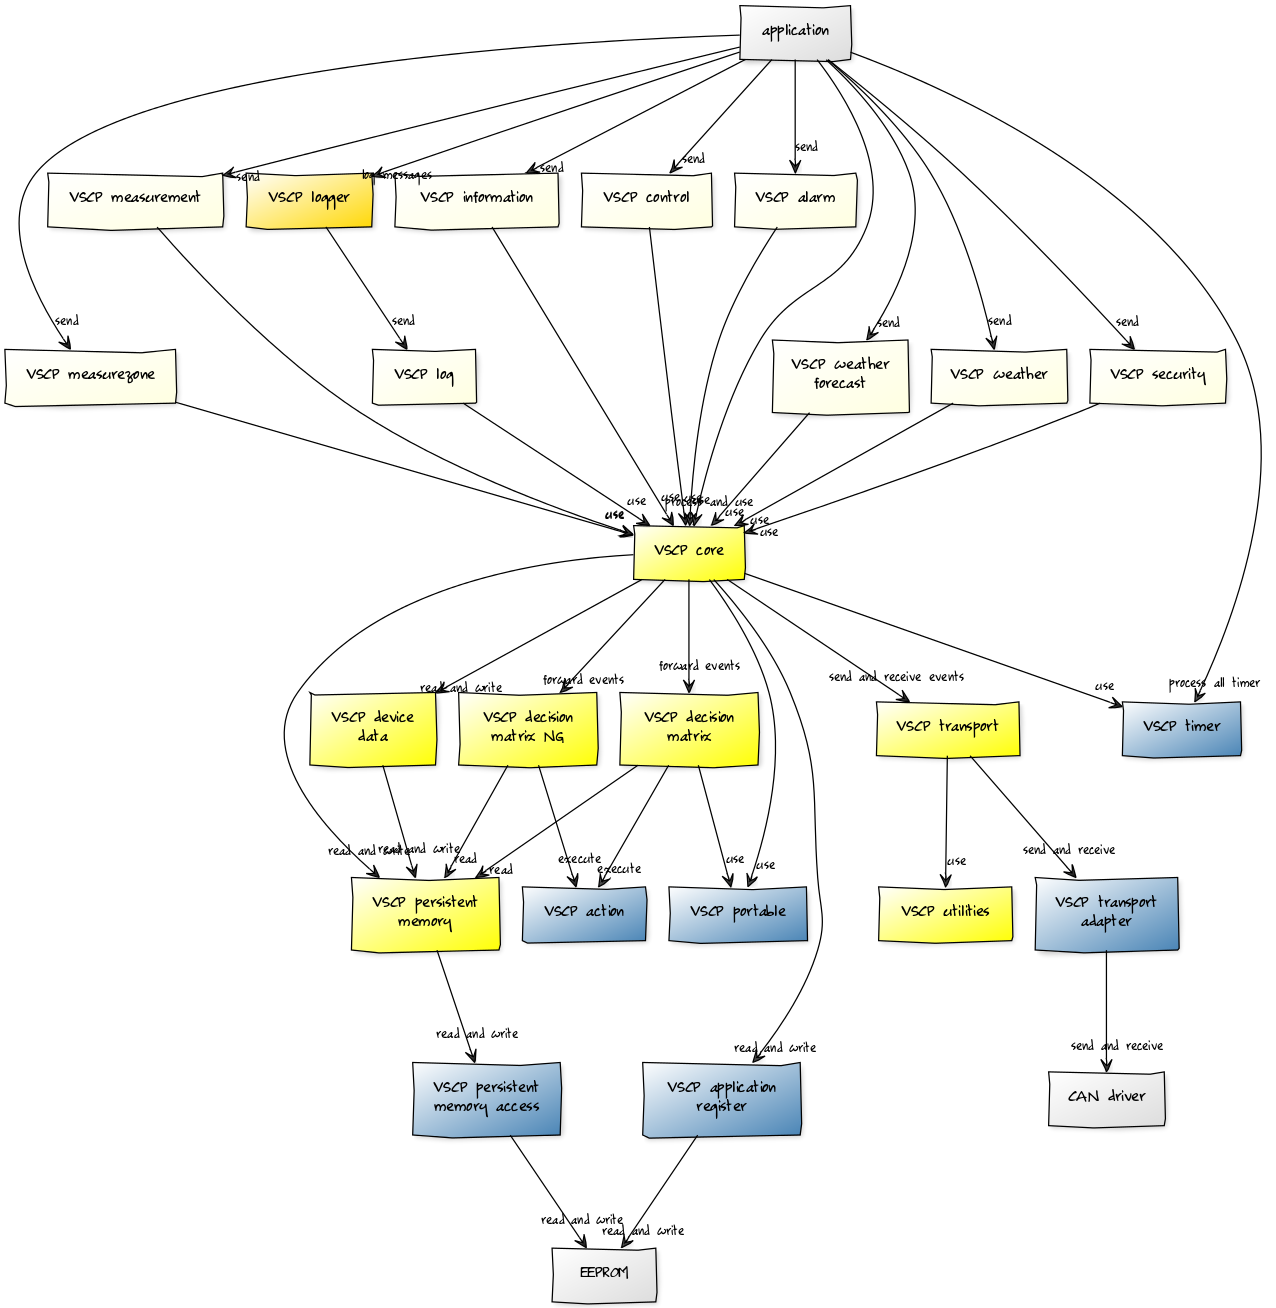
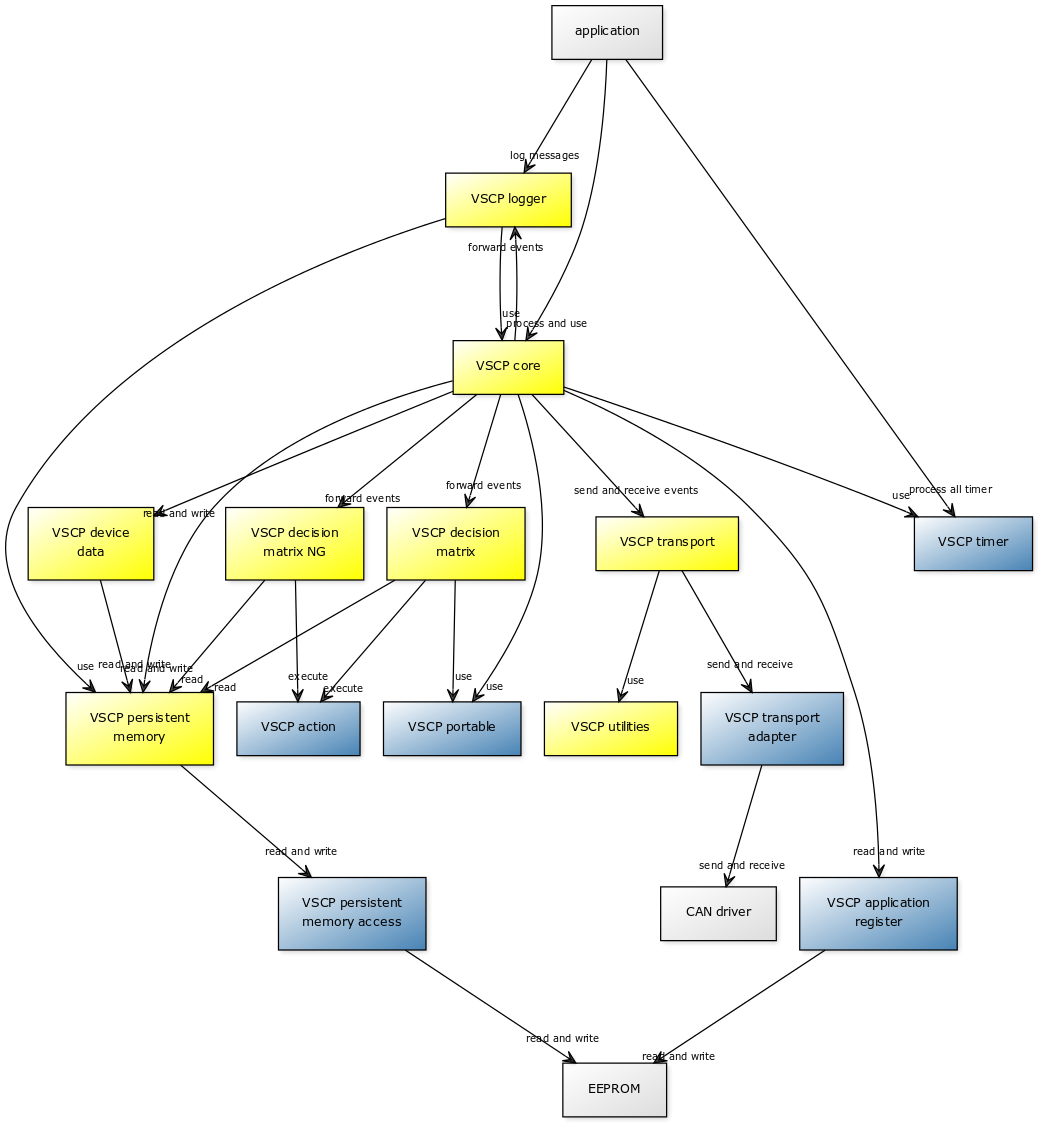
Architecture regarding log/logger re-factored. Documentation updated.

diff --git a/vscp/vscp_logger.c b/vscp/vscp_logger.c
@@ -44,7 +44,7 @@ $Date: 2015-01-05 20:23:52 +0100 (Mo, 05 Jan 2015) $
     INCLUDES
 *******************************************************************************/
 #include "vscp_logger.h"
-#include "vscp_log.h"
+#include "vscp_core.h"
 #include "vscp_class_l1.h"
 #include "vscp_type_log.h"
 #include "vscp_ps.h"
@@ -135,7 +135,7 @@ extern void vscp_logger_log(uint8_t id, VSCP_LOGGER_LVL level, uint8_t const * c
     {
         if (0 != (vscp_logger_logLevel & (1 << level)))
         {
-            (void)vscp_log_sendLogEvent(id, level, msg, size);
+            (void)vscp_logger_sendLogEvent(id, level, msg, size);
         }
     }
 
@@ -214,8 +214,68 @@ extern void vscp_logger_handleEvent(vscp_RxMessage const * const msg)
     return;
 }
 
+#endif  /* VSCP_CONFIG_BASE_IS_ENABLED( VSCP_CONFIG_ENABLE_LOGGER ) */
+
+/**
+ * Message for Log. Several frames have to be sent for a event that take up more the
+ * five bytes which is the maximum for each frame. In this case the zero based index
+ * (byte 2) should be increased for each frame.
+ *
+ * @param[in] id ID for event.
+ * @param[in] level Log level for message.
+ * @param[in] msg Message.
+ * @param[in] size Message size in bytes.
+ * @return Status
+ * @retval FALSE Failed to send the event
+ * @retval TRUE  Event successful sent
+ *
+ */
+extern BOOL vscp_logger_sendLogEvent(uint8_t id, uint8_t level, uint8_t const * const msg, uint8_t size)
+{
+    vscp_TxMessage  txMsg;
+    uint8_t         index       = 0;
+    uint8_t         eventIndex  = 0;
+    uint8_t         msgIndex    = 0;
+    BOOL            status      = FALSE;
+    
+    vscp_core_prepareTxMessage(&txMsg, VSCP_CLASS_L1_LOG, VSCP_TYPE_LOG_LOG_EVENT, VSCP_PRIORITY_3_NORMAL);
+
+    txMsg.dataNum = 8;
+    txMsg.data[0] = id;
+    txMsg.data[1] = level;
+    
+    /* If necessary, send several log events for a single log message. */
+    do
+    {
+        /* Log event index, later needed to reassemble the log message */
+        txMsg.data[2] = eventIndex;
+
+        /* Defragment the log message */
+        for(index = 3; index < VSCP_L1_DATA_SIZE; ++index)
+        {
+            if ((NULL != msg) &&
+                (0 < size))
+            {
+                txMsg.data[index] = msg[msgIndex];
+                ++msgIndex;
+                --size;
+            }
+            /* Fill the rest of the log event with zeros. */
+            else
+            {
+                txMsg.data[index] = 0;
+            }
+        }
+        
+        status = vscp_core_sendEvent(&txMsg);
+        
+        ++eventIndex;
+    }
+    while((NULL != msg) && (0 < size) && (TRUE == status));
+    
+    return status;
+}
+
 /*******************************************************************************
     LOCAL FUNCTIONS
 *******************************************************************************/
-
-#endif  /* VSCP_CONFIG_BASE_IS_ENABLED( VSCP_CONFIG_ENABLE_LOGGER ) */

diff --git a/vscp/events/vscp_log.c b/vscp/events/vscp_log.c
@@ -50,6 +50,7 @@ $Date: 2015-01-05 20:23:52 +0100 (Mo, 05 Jan 2015) $
 #include "vscp_core.h"
 #include "vscp_class_l1.h"
 #include "vscp_type_log.h"
+#include "vscp_logger.h"
 
 /*******************************************************************************
     COMPILER SWITCHES
@@ -118,48 +119,7 @@ extern BOOL vscp_log_sendUndefinedEvent(void)
  */
 extern BOOL vscp_log_sendLogEvent(uint8_t id, uint8_t level, uint8_t const * const msg, uint8_t size)
 {
-    vscp_TxMessage  txMsg;
-    uint8_t         index       = 0;
-    uint8_t         eventIndex  = 0;
-    uint8_t         msgIndex    = 0;
-    BOOL            status      = FALSE;
-    
-    vscp_core_prepareTxMessage(&txMsg, VSCP_CLASS_L1_LOG, VSCP_TYPE_LOG_LOG_EVENT, VSCP_PRIORITY_3_NORMAL);
-
-    txMsg.dataNum = 8;
-    txMsg.data[0] = id;
-    txMsg.data[1] = level;
-    
-    /* If necessary, send several log events for a single log message. */
-    do
-    {
-        /* Log event index, later needed to reassemble the log message */
-        txMsg.data[2] = eventIndex;
-
-        /* Defragment the log message */
-        for(index = 3; index < VSCP_L1_DATA_SIZE; ++index)
-        {
-            if ((NULL != msg) &&
-                (0 < size))
-            {
-                txMsg.data[index] = msg[msgIndex];
-                ++msgIndex;
-                --size;
-            }
-            /* Fill the rest of the log event with zeros. */
-            else
-            {
-                txMsg.data[index] = 0;
-            }
-        }
-        
-        status = vscp_core_sendEvent(&txMsg);
-        
-        ++eventIndex;
-    }
-    while((NULL != msg) && (0 < size) && (TRUE == status));
-    
-    return status;
+    return vscp_logger_sendLogEvent(id, level, msg, size);
 }
 
 /**

diff --git a/vscp/vscp_logger.h b/vscp/vscp_logger.h
@@ -259,6 +259,22 @@ extern void vscp_logger_handleEvent(vscp_RxMessage const * const msg);
 
 #endif  /* VSCP_CONFIG_BASE_IS_ENABLED( VSCP_CONFIG_ENABLE_LOGGER ) */
 
+/**
+ * Message for Log. Several frames have to be sent for a event that take up more the
+ * five bytes which is the maximum for each frame. In this case the zero based index
+ * (byte 2) should be increased for each frame.
+ *
+ * @param[in] id ID for event.
+ * @param[in] level Log level for message.
+ * @param[in] msg Message.
+ * @param[in] size Message size in bytes.
+ * @return Status
+ * @retval FALSE Failed to send the event
+ * @retval TRUE  Event successful sent
+ *
+ */
+extern BOOL vscp_logger_sendLogEvent(uint8_t id, uint8_t level, uint8_t const * const msg, uint8_t size);
+
 #ifdef __cplusplus
 }
 #endif

diff --git a/README.md b/README.md
@@ -24,8 +24,9 @@ More information can be found on the main site http://www.vscp.org
 ##Framework
 The VSCP software framework for level 1 devices provides several layers according to the [VSCP specification](http://www.vscp.org/docs/vscpspec/doku.php).
 
+##Core
+![core-diagram](https://github.com/BlueAndi/vscp-framework/blob/master/vscp/doc/doxfiles/vscp_modules.png)
 ![color-legend](https://github.com/BlueAndi/vscp-framework/blob/master/vscp/doc/doxfiles/vscp_modules_color_legend.png)
-![overview-diagram](https://github.com/BlueAndi/vscp-framework/blob/master/vscp/doc/doxfiles/vscp_modules.png)
 
 * The core functionality which has a built-in state machine to handle different use cases of the protocol and etc. (vscp\_core.[ch]). Right now it supports every mandatory event and some minor optional ones.
 * The decision matrix is handled separately (vscp\_dm.[ch]). It contains the standard decision matrix, as described in the VSCP specification and contains an additional extension.
@@ -36,7 +37,8 @@ The VSCP software framework for level 1 devices provides several layers accordin
     This can be configured for each data (vscp\_dev\_data_config.[ch]), except the firmware version.
 * Functionality can be configured for your needs (vscp_config.[ch]).
 * Some utility functions are separated (vscp\_util.[ch]) and used by different core modules or are maybe interested for the application too.
-  
+* Log functionaly is provided for debugging purposes (vscp\_logger.[ch]).
+
 The framework is independent of the hardware and the used operating system. To achieve independence all of the following
 layers have to be adapted to the system. This is supported by templates, which contains all necessary functions with nearly empty
 bodys.
@@ -51,6 +53,12 @@ how VSCP is integrated into your software:
 * Callout functions, lamp handling and etc. (vscp\_portable.c)
 
 Templates exists for all of them, which makes it much easier to adapt it and less time. See in the templates folder.
+
+##Event abstraction
+![core-diagram](https://github.com/BlueAndi/vscp-framework/blob/master/vscp/doc/doxfiles/vscp_event_modules.png)
+
+Using only the core, you have to assemble the VSCP events by yourself. If you want to deal only with parameter, which are
+VSCP independent, use the next upper layer, the event abstraction modules.
 
 ##Structure
 
